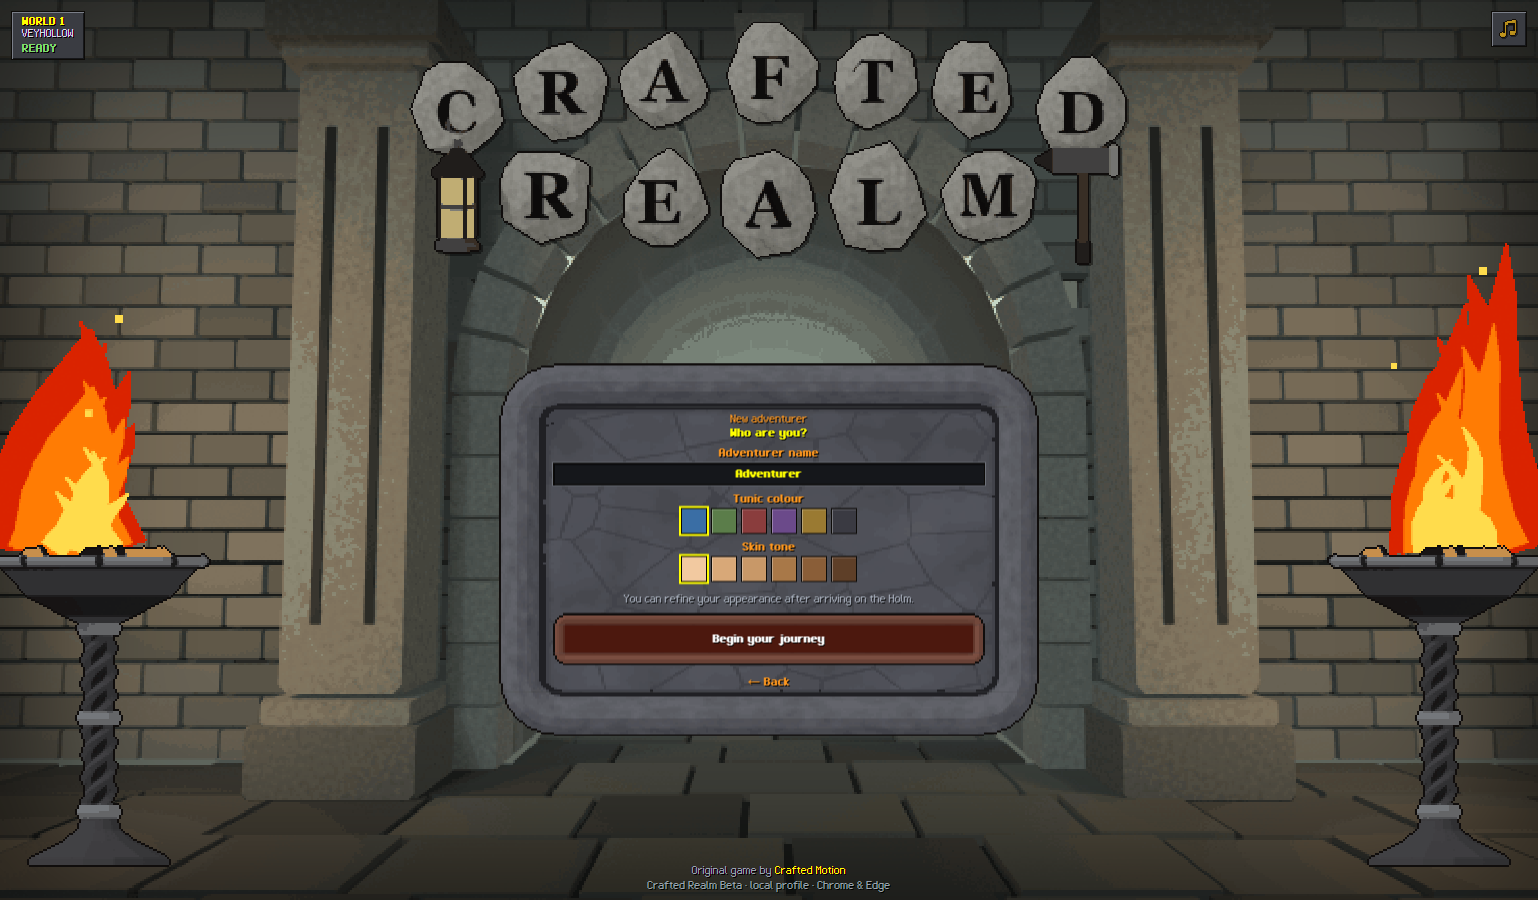
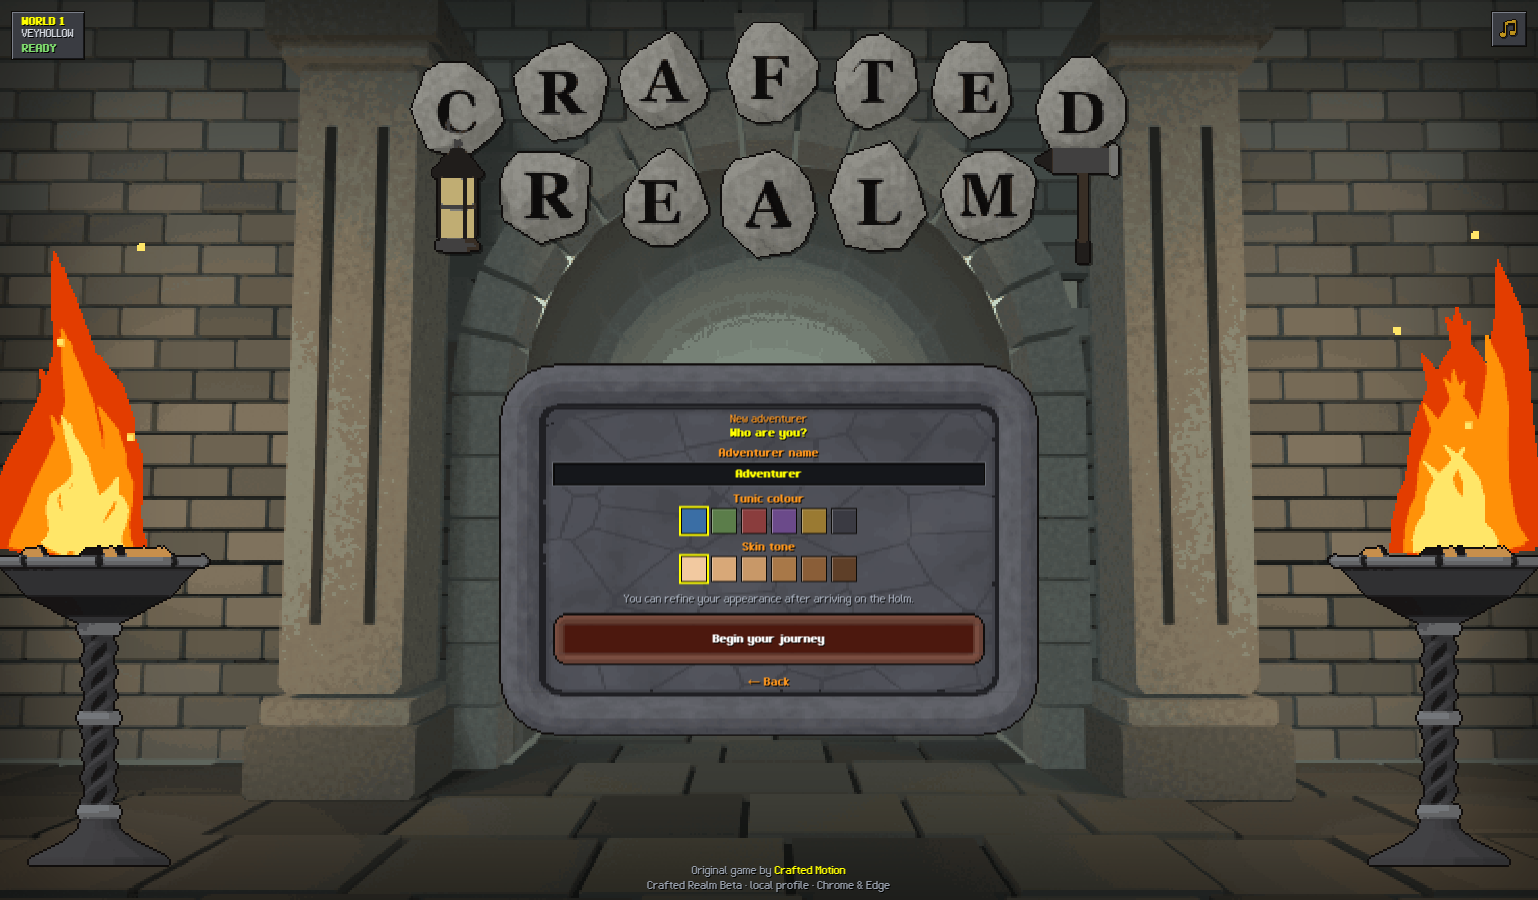
Login v4 pass 2: warmer fire colours, fire frames stepped by the kit (runs everywhere), form hooks for further stages
- fire recoloured orange-red / amber / pale gold (less pure red); 8 frames stepped every 90 ms by ui_osrs_kit.js
  (the two braziers out of phase; a third of the speed with reduced motion) instead of a CSS steps() animation
- any text / password / email field, label or alert inside the panel takes the stone look (hooks for the online sign-in)
- capture shows the fire running (4 different frames)

diff --git a/assets/ui/login_overhaul.css b/assets/ui/login_overhaul.css
@@ -11,11 +11,11 @@
 #welcome-screen{
   --lg-ink:#0d0b08;--lg-orange:#ff981f;--lg-yellow:#ffff00;--lg-font:'Realm Small',Verdana,Tahoma,sans-serif;
   position:fixed;inset:0;z-index:90;overflow:hidden;color:#e9dcbc;isolation:isolate;font:12px var(--lg-font);
-  background:#161817 url("../icons/ui/v3/login/hall_dim.png?v=1") center 42%/cover no-repeat!important;image-rendering:pixelated;
+  background:#161817 url("../icons/ui/v3/login/hall_dim.png?v=2") center 42%/cover no-repeat!important;image-rendering:pixelated;
 }
 #welcome-screen::before{display:none;}
 .login-hall-lit{position:absolute;inset:0;z-index:0;pointer-events:none;opacity:.55;
-  background:url("../icons/ui/v3/login/hall_lit.png?v=1") center 42%/cover no-repeat;image-rendering:pixelated;}
+  background:url("../icons/ui/v3/login/hall_lit.png?v=2") center 42%/cover no-repeat;image-rendering:pixelated;}
 .login-sky-wash{display:none;}
 .login-vignette{position:absolute;inset:-2px;z-index:2;pointer-events:none;box-shadow:inset 0 0 140px 40px rgba(0,0,0,.6);}
 #login-embers{display:none;}
@@ -29,10 +29,8 @@
 .login-brazier-left{left:max(-24px,calc(50% - 790px));} .login-brazier-right{right:max(-24px,calc(50% - 790px));}
 .login-brazier .lb-stand{position:absolute;left:0;bottom:0;width:240px;height:336px;image-rendering:pixelated;}
 .login-brazier .lb-fire{position:absolute;left:0;bottom:312px;width:240px;height:336px;image-rendering:pixelated;
-  background:url("../icons/ui/v3/login/flame_sheet.png?v=1") 0 0/1920px 336px no-repeat;animation:lbFire .72s steps(8) infinite;}
-.login-brazier-right .lb-fire{transform:scaleX(-1);animation-delay:-.33s;}
-@keyframes lbFire{from{background-position:0 0}to{background-position:-1920px 0}}
-#welcome-screen.login-reduced-motion .login-brazier .lb-fire{animation-duration:1.8s;}
+  background:url("../icons/ui/v3/login/flame_sheet.png?v=2") 0 0/1920px 336px no-repeat;}   /* frames stepped by ui_osrs_kit.js */
+.login-brazier-right .lb-fire{transform:scaleX(-1);}
 @media (max-height:860px){.login-brazier{--lb-scale:.8}}
 @media (max-height:700px){.login-brazier{--lb-scale:.64}}
 
@@ -88,8 +86,11 @@
 .login-utility-row button:hover,.login-back:hover{color:var(--lg-yellow);text-decoration:underline;}
 .login-back{display:block;margin:6px auto 0;}
 .login-field-label{display:block;color:var(--lg-orange);font:bold 12px var(--lg-font);margin:2px 0 4px;text-shadow:1px 1px 0 #000;}
-#char-name{width:100%!important;box-sizing:border-box;padding:5px!important;margin:0 0 6px!important;text-align:center;font:bold 12px var(--lg-font)!important;color:var(--lg-yellow)!important;
+#char-name,#welcome-box input[type=text],#welcome-box input[type=password],#welcome-box input[type=email]{width:100%!important;box-sizing:border-box;padding:5px!important;margin:0 0 6px!important;text-align:center;font:bold 12px var(--lg-font)!important;color:var(--lg-yellow)!important;
   background:#15171b!important;border:0!important;border-radius:0!important;box-shadow:inset 0 0 0 1px var(--lg-ink),inset 1px 1px 0 1px #07080a,0 0 0 1px #6c7078!important;user-select:text;}
+/* hooks for further stages (e.g. the online sign-in): any field, label or stone button inside the panel takes the same look */
+#welcome-box label{color:var(--lg-orange);font:bold 12px var(--lg-font);text-shadow:1px 1px 0 #000;}
+#welcome-box .login-error,#welcome-box [role=alert]{color:#ff5a40;font:12px var(--lg-font);text-shadow:1px 1px 0 #000;}
 .login-choice-set{border:0;margin:2px 0;padding:0;}
 .login-choice-set legend{margin:0 auto;color:var(--lg-orange);font:bold 12px var(--lg-font);text-shadow:1px 1px 0 #000;}
 .swatches{display:flex;gap:6px;justify-content:center;margin:4px 0 6px!important;}

diff --git a/src/ui_osrs_kit.js b/src/ui_osrs_kit.js
@@ -280,7 +280,8 @@ function patchHud(){if(typeof UI==='undefined'||UI.__kitHud)return;UI.__kitHud=t
 // Login v4 (owner 2026-09-26: "more like the old 2004 login"): the welcome screen is our Blender stone hall
 // (assets/icons/ui/v3/login/hall_dim.png, the CSS background) with a second render of the same hall lit by the fires
 // (hall_lit.png) laid over it; its opacity flickers in hard little steps with the fire. Two iron braziers stand at the
-// edges, each carrying an 8-frame fire sprite sheet (CSS steps animation). All rendered by
+// edges, each carrying an 8-frame fire sprite sheet stepped here every 90 ms (JS, not a CSS animation, so it runs the same
+// everywhere and the reduced-motion option can slow it). All rendered by
 // tools/blender/build_login_art_v4.py + tools/process_login_art_v4.py. buildTorches keeps its name for the boot order.
 var torch={t:0,lit:null,prev:.55};
 function buildTorches(){
@@ -290,6 +291,9 @@ function buildTorches(){
   var b=el('div','login-brazier login-brazier-'+side);b.setAttribute('aria-hidden','true');
   b.innerHTML='<i class="lb-fire"></i><img class="lb-stand" src="'+SPR_BASE+'login/brazier.png'+SPRV+'" alt="" draggable="false">';
   ws.appendChild(b)});
+ var fires=Array.prototype.slice.call(ws.querySelectorAll('.login-brazier .lb-fire')),tick=0;
+ setInterval(function(){if(ws.style.display!=='flex')return;tick++;if(ws.classList.contains('login-reduced-motion')&&tick%3)return;
+  fires.forEach(function(f,i){var fr=(tick+i*3)%8;f.style.backgroundPosition=(-fr*f.clientWidth)+'px 0'})},90);
  var r=rng(7);
  torch.t=setInterval(function(){if(ws.style.display!=='flex')return;var reduced=ws.classList.contains('login-reduced-motion');
   // a wandering flicker: mostly the steady glow, now and then a brighter or dimmer lick (hard steps, no easing)

diff --git a/tools/capture_login_v4.js b/tools/capture_login_v4.js
@@ -30,7 +30,7 @@ const sleep=ms=>new Promise(r=>setTimeout(r,ms));
   // four frames of the left brazier's fire (animation check)
   const fire=await page.evaluate(()=>{const e=document.querySelector('.kit-torch-left,.login-brazier-left');if(!e)return null;const r=e.getBoundingClientRect();
     return {x:Math.max(0,r.x-40),y:Math.max(0,r.y-230),width:Math.min(300,innerWidth),height:Math.min(innerHeight-Math.max(0,r.y-230),520)}});
-  if(fire)for(let i=0;i<4;i++){await shot('11_fire_'+i,fire);await sleep(140)}
+    if(fire)for(let i=0;i<4;i++){await shot('11_fire_'+i,fire);await sleep(140)}
   const stage=async(id,n,extra)=>{await page.evaluate((id,extra)=>{if(extra==='play'){try{LoginOverhaul.updateProfileSummary({look:{name:'Adventurer'},xp:{Attack:1200},tut:{step:3},inv:[{id:'coins',qty:25}]})}catch(e){}
       document.getElementById('play-welcome').textContent='Welcome back, Adventurer'}LoginOverhaul.setStage(id)},id,extra);await sleep(500);await shot(n);
     const b=await rectOf('#welcome-box',14);if(b)await shot(n+'_panel',b)};

diff --git a/index.html b/index.html
@@ -489,7 +489,7 @@
   #build-stamp.min{font-size:0;padding:5px 6px;}
   #build-stamp.min:before{content:'\25CF';font-size:11px;}  /* collapsed: a single dot */
 </style>
-<link rel="stylesheet" href="assets/ui/login_overhaul.css?v=12">
+<link rel="stylesheet" href="assets/ui/login_overhaul.css?v=14">
 </head>
 <body>
 <canvas id="game-canvas"></canvas>
@@ -1044,7 +1044,7 @@
 <script src="src/frame_stage_metrics.js?v=1"></script><script src="src/game5_main.js?v=h57cfx1os1"></script>
 <script src="src/perf_probe.js?v=1"></script>
 <script src="src/tut_firemaking.js?v=1"></script>
-<script src="src/ui_osrs_kit.js?v=10"></script><!-- LAST: the one OSRS interface kit (assets/ui/osrs_kit.css) -->
+<script src="src/ui_osrs_kit.js?v=11"></script><!-- LAST: the one OSRS interface kit (assets/ui/osrs_kit.css) -->
 <script>
   /* sync the settings volume sliders to saved values on load */
   window.addEventListener('load', function(){ try{

diff --git a/tools/blender/build_login_art_v4.py b/tools/blender/build_login_art_v4.py
@@ -29,7 +29,7 @@ PAL = {
     'flag_a': (.36, .37, .36), 'flag_b': (.31, .32, .31), 'flag_c': (.40, .41, .39), 'grout': (.12, .12, .12),
     'n_pillar': (.55, .58, .57), 'n_pillar_dk': (.42, .45, .44), 'n_arch': (.53, .56, .55), 'vault': (.40, .41, .40), 'groove': (.22, .22, .22),
     'e_mist': (.80, .86, .80), 'iron': (.34, .34, .36), 'iron_dk': (.18, .18, .19), 'steel': (.62, .64, .67),
-    'e_fire_dk': (.80, .16, .03), 'e_fire': (1.0, .50, .08), 'e_fire_core': (1.0, .86, .36), 'e_ember': (1.0, .62, .18), 'coal': (.14, .10, .08),
+    'e_fire_dk': (.84, .26, .04), 'e_fire': (1.0, .58, .10), 'e_fire_core': (1.0, .90, .46), 'e_ember': (1.0, .62, .18), 'coal': (.14, .10, .08),
     'n_slab': (.72, .72, .70), 'ink': (.10, .09, .09), 'wood': (.50, .32, .16), 'wood_dk': (.30, .19, .09), 'e_lamp': (1.0, .84, .38), 'brass': (.80, .60, .26),
     'n_rim': (.50, .51, .55), 'v_marble': (.44, .45, .50), 'rim_groove': (.16, .16, .18),
     'btn_face': (.30, .30, .33), 'btn_face_hi': (.40, .40, .44), 'btn_face_red': (.42, .15, .10), 'btn_face_red_hi': (.52, .20, .13), 'btn_face_off': (.22, .22, .23),
